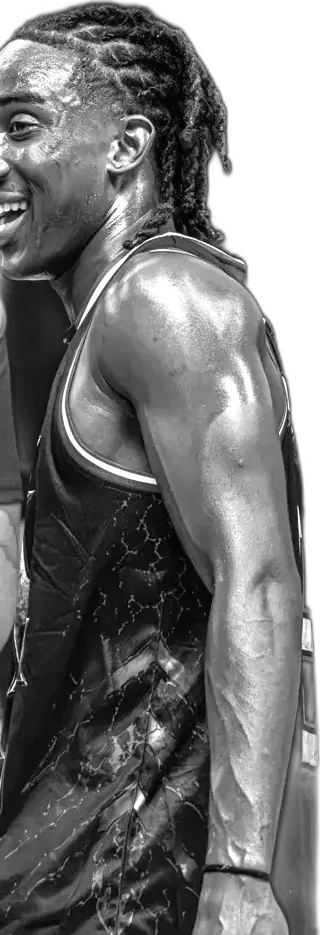
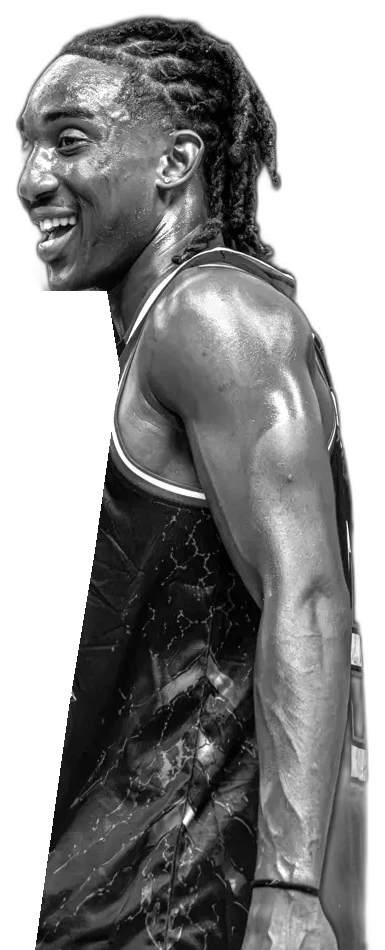
Division: photo droite + mobile hero + Game 4

diff --git a/src/components/Home.tsx b/src/components/Home.tsx
@@ -163,7 +163,7 @@ export function Divisions() {
   return (
     <section className="relative isolate overflow-hidden bg-ink py-16 lg:py-28">
       <Image src="/img/side-left.webp" alt="" width={700} height={819} aria-hidden className="pointer-events-none absolute -left-32 bottom-0 -z-10 hidden h-[82%] w-auto opacity-30 [mask-image:linear-gradient(to_right,black_35%,transparent)] xl:-left-16 lg:block" />
-      <Image src="/img/side-right.webp" alt="" width={320} height={935} aria-hidden className="pointer-events-none absolute -right-16 bottom-0 -z-10 hidden h-[88%] w-auto opacity-30 [mask-image:linear-gradient(to_left,black_35%,transparent)] xl:-right-6 lg:block" />
+      <Image src="/img/side-right.webp" alt="" width={385} height={950} aria-hidden className="pointer-events-none absolute bottom-0 right-[2%] -z-10 hidden h-[88%] w-auto opacity-45 [mask-image:linear-gradient(to_bottom,black_55%,transparent)] xl:right-[5%] lg:block" />
       <div className="gold-glow pointer-events-none absolute inset-x-0 bottom-0 -z-10 h-2/3 opacity-60" />
       <div className="mx-auto max-w-page px-4 text-center lg:px-6">
         <p className="title gold-text text-sm tracking-[0.3em]">Les titres TBL</p>
